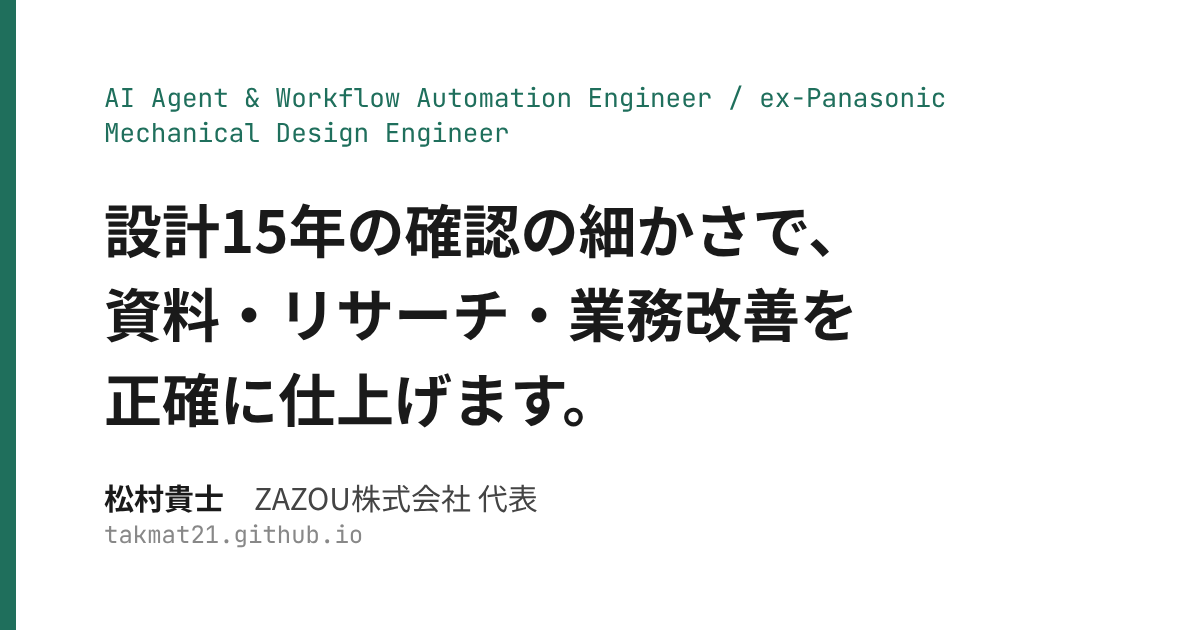
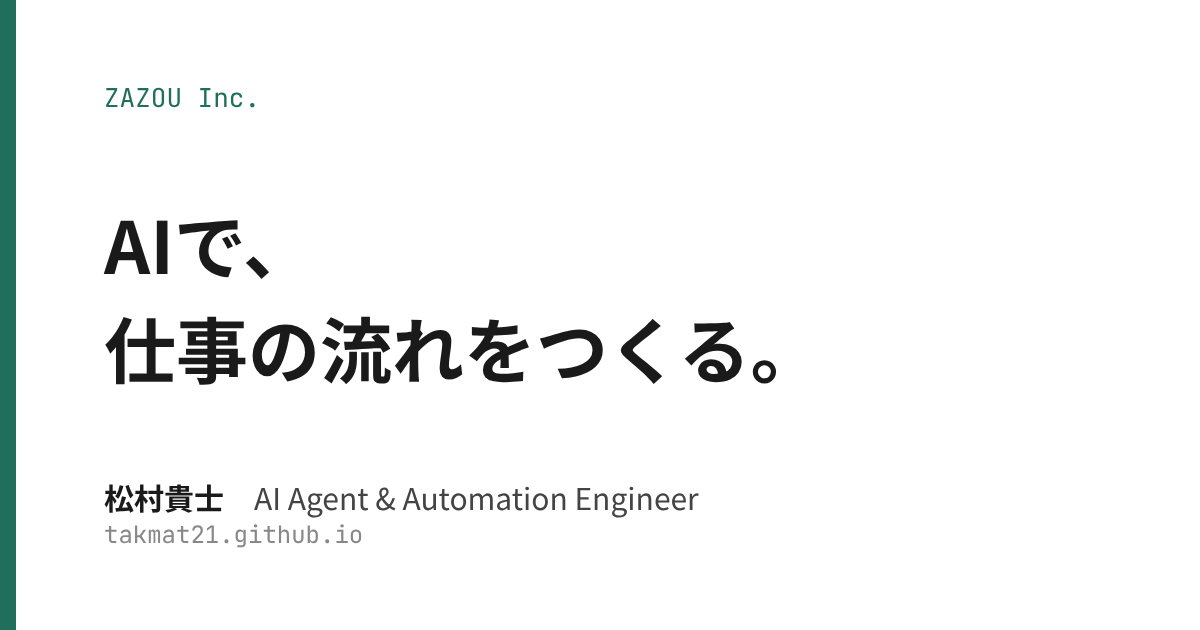
トップの見出しを「AIで、仕事の流れをつくる。」に、説明文と肩書を更新
Claude-Session: https://claude.ai/code/session_01FoXnQY1Ry2KE1EA7YCbQWn

diff --git a/index.html b/index.html
@@ -3,17 +3,17 @@
 <head>
 <meta charset="utf-8">
 <meta name="viewport" content="width=device-width,initial-scale=1">
-<title>松村貴士｜資料作成・リサーチ・業務改善</title>
+<title>ZAZOU Inc.｜AIで、仕事の流れをつくる。— 松村貴士</title>
 <link rel="icon" href="assets/favicon.svg" type="image/svg+xml">
 <link rel="apple-touch-icon" href="assets/apple-touch-icon.png">
 <meta property="og:type" content="website">
-<meta property="og:title" content="松村貴士｜資料作成・リサーチ・業務改善">
-<meta property="og:description" content="松村貴士（ZAZOU株式会社 代表）のポートフォリオ。元パナソニック機構設計。資料作成・リサーチ・スプレッドシートとGASによる業務改善の見本と実績。">
+<meta property="og:title" content="ZAZOU Inc.｜AIで、仕事の流れをつくる。">
+<meta property="og:description" content="ZAZOU Inc.（代表 松村貴士）のポートフォリオ。階層型のAIエージェント体制を自社で運用し、事実の表・二重チェック・人の最終確認で誤りを防ぎながら、資料作成・リサーチ・業務改善を仕組みにします。">
 <meta property="og:url" content="https://takmat21.github.io/">
 <meta property="og:image" content="https://takmat21.github.io/assets/ogp.png">
 <meta name="twitter:card" content="summary_large_image">
 
-<meta name="description" content="松村貴士（ZAZOU株式会社 代表）のポートフォリオ。元パナソニック機構設計。資料作成・リサーチ・スプレッドシートとGASによる業務改善の見本と実績。">
+<meta name="description" content="ZAZOU Inc.（代表 松村貴士）のポートフォリオ。階層型のAIエージェント体制を自社で運用し、事実の表・二重チェック・人の最終確認で誤りを防ぎながら、資料作成・リサーチ・業務改善を仕組みにします。">
 <link rel="preconnect" href="https://fonts.googleapis.com">
 <link href="https://fonts.googleapis.com/css2?family=Noto+Sans+JP:wght@400;700&family=JetBrains+Mono:wght@400;600&display=swap" rel="stylesheet">
 <link rel="stylesheet" href="assets/style.css">
@@ -25,11 +25,10 @@
 <div class="hero-art hero-top" data-hero-art role="img" aria-label="散らばった墨の断片が細い線でつながり、ひとつの形にまとまっていくアニメーション"></div>
 <header class="hero">
 <div class="hero-text">
-  <p class="name">松村貴士 ／ ZAZOU株式会社 代表</p>
-  <p class="title"><span>AIエージェント・業務自動化エンジニア</span> ／ <span>ex-Panasonic Mechanical Design Engineer</span></p>
-  <!-- キャッチコピーは松村さんの確認待ち（ルール61） -->
-  <h1>設計15年の確認の細かさで、<br>資料・リサーチ・業務改善を正確に仕上げます。</h1>
-  <p>パナソニックで15年、家電の設計に従事。2020年からEC事業の会社を経営しています。</p>
+  <p class="name">ZAZOU Inc.</p>
+  <h1>AIで、仕事の流れをつくる。</h1>
+  <p class="title"><span>AI Agent &amp; Automation Engineer</span>　<span class="who">松村貴士</span></p>
+  <p class="desc">統括役のAIが担当ごとのAIに指示し、結果を確かめて改善する「階層型のAIエージェント体制」を、自社の業務で毎日動かしています。AIには事実をまとめた表だけを使わせ、別のAIによる二重チェックと人の最終確認を通してから外に出す。パナソニックで15年、家電の設計で身につけた確認の細かさを、そのまま仕組みにしています。</p>
 </div>
 </header>
 

diff --git a/assets/style.css b/assets/style.css
@@ -112,3 +112,8 @@ html,body{overflow-x:clip}
   .home ul.rows{display:grid;grid-template-columns:1fr 1fr;column-gap:40px}
   .home #paper ul.rows{grid-template-columns:1fr}
 }
+.hero .name{font-family:var(--mono);font-size:14px;font-weight:600;color:var(--fg);letter-spacing:.06em}
+.hero .title{margin:14px 0 0}
+.hero .title .who{color:var(--fg);font-family:var(--sans);font-weight:700;font-size:15px}
+.hero .desc{font-size:15px;line-height:1.9}
+@media (max-width:860px){.hero .desc{margin-top:18px}}
